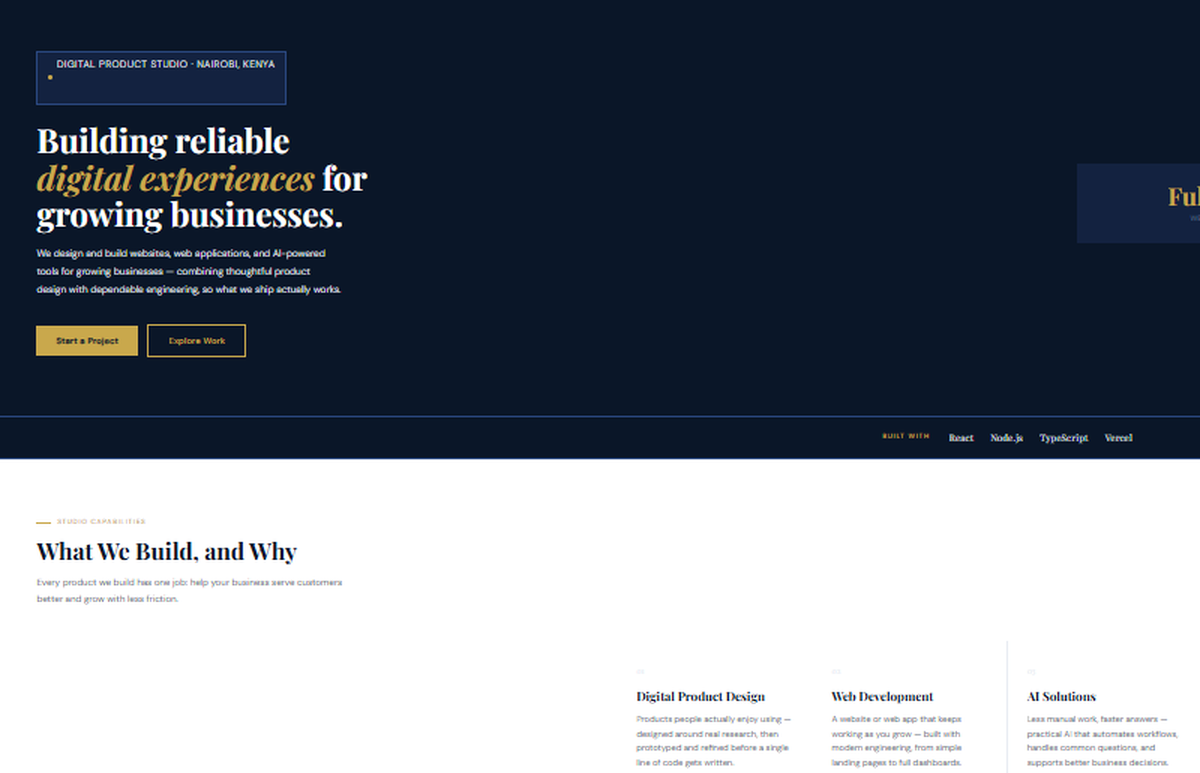
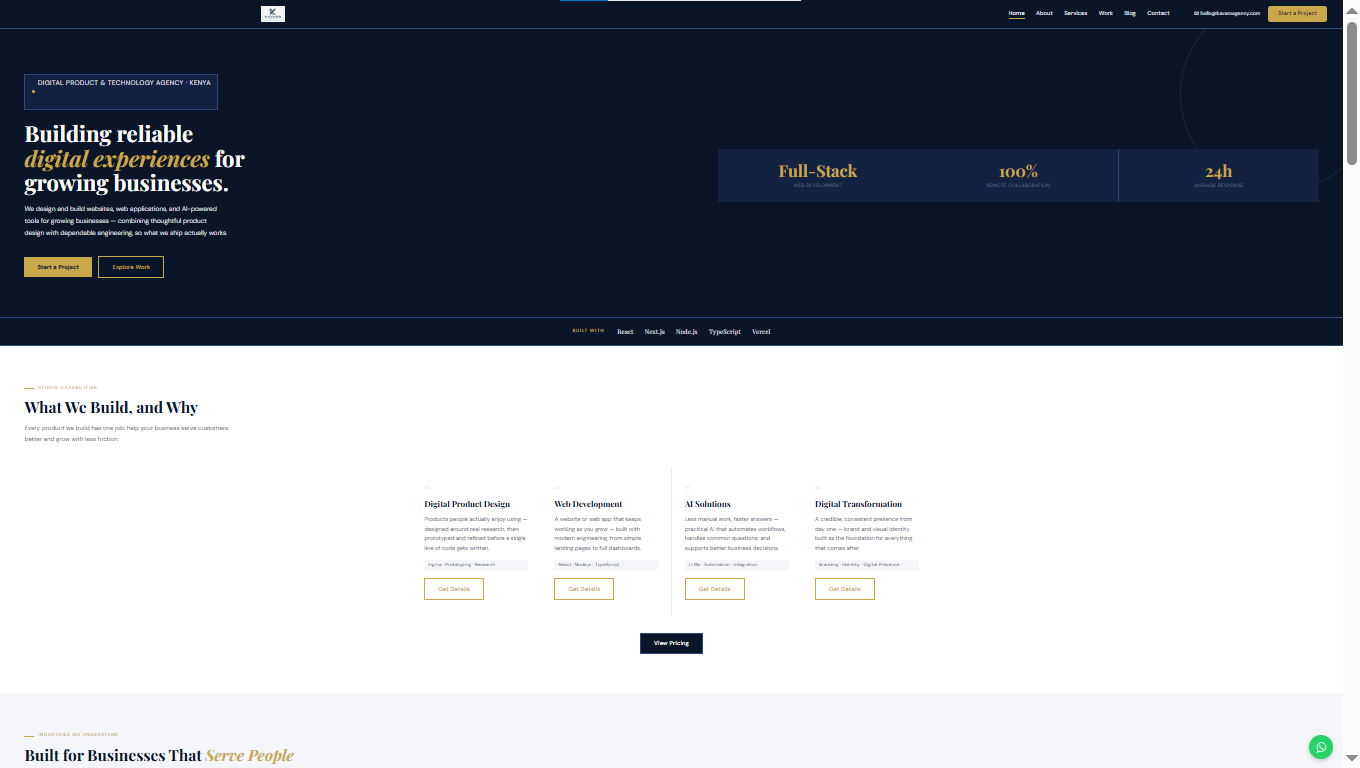
Add real Kavaro proof-of-work projects (MediFlow, Kavaro AI Support, LearnHub) with images; update Kavaro Agency hero

diff --git a/src/components/Projects.jsx b/src/components/Projects.jsx
@@ -66,31 +66,6 @@ const projects = [
   },
   {
     index: '04',
-    name: 'Wordly Dictionary',
-    tagline: 'Word Lookup, Search & Save',
-    description:
-      'A dark-themed dictionary app for searching word definitions, saving favorites, and revisiting recent searches — built for quick, distraction-free lookups.',
-    role: ['React development', 'API & data handling', 'User experience', 'Search functionality'],
-    stack: ['JavaScript', 'React'],
-    links: [
-      { label: 'Live demo', href: 'https://wordly-dictionary-ten.vercel.app/' },
-      { label: 'Repository', href: 'https://github.com/caroline568/wordly-vocabulary-app' },
-    ],
-  },
-  {
-    index: '05',
-    name: 'Workout Tracker API',
-    tagline: 'Backend for Workouts & Exercises',
-    description:
-      'A backend API for logging workouts and exercises, with sets, reps, and duration tracked through a many-to-many exercise relationship — built as a Moringa School summative lab.',
-    role: ['REST API development', 'Database design', 'Serialization', 'Backend architecture'],
-    stack: ['Python', 'Flask', 'SQLAlchemy', 'Marshmallow'],
-    links: [
-      { label: 'Repository', href: 'https://github.com/caroline568/workout-tracker-api' },
-    ],
-  },
-  {
-    index: '06',
     name: 'Mood Tracker',
     tagline: 'Full-Stack Journaling App',
     description:
@@ -100,6 +75,39 @@ const projects = [
     links: [
       { label: 'Repository', href: 'https://github.com/caroline568/mood-tracker-app' },
     ],
+  },
+  {
+    index: '05',
+    name: 'MediFlow',
+    tagline: 'Healthcare Booking Platform',
+    description:
+      'A patient-facing booking platform for local clinics — live doctor availability, instant confirmation, free rescheduling, and a 24/7 AI patient assistant, built under Kavaro Agency.',
+    image: '/projects/mediflow.png',
+    role: ['Product design', 'Frontend development', 'AI integration'],
+    stack: ['React', 'Tailwind', 'Supabase', 'AI Assistant'],
+    links: [{ label: 'Live demo', href: 'https://healthbuddy-appointments.lovable.app' }],
+  },
+  {
+    index: '06',
+    name: 'Kavaro AI Support',
+    tagline: 'AI Customer Support Product',
+    description:
+      'An AI support widget trained only on a business\u2019s own documents — answers from that content, escalates what it doesn\u2019t know, and embeds on any site in one line of code.',
+    image: '/projects/kavaro-ai-support.png',
+    role: ['Product design', 'Frontend development', 'AI integration'],
+    stack: ['React', 'OpenAI API', 'Node.js'],
+    links: [{ label: 'Live demo', href: 'https://kavaro-support-ai.lovable.app' }],
+  },
+  {
+    index: '07',
+    name: 'LearnHub',
+    tagline: 'Learning Management Platform',
+    description:
+      'A learning management platform with courses, lessons, assignments, and certificates for students, authoring and grading tools for instructors, and an always-on AI tutor alongside every lesson.',
+    image: '/projects/learnhub.png',
+    role: ['Product design', 'Frontend development', 'AI integration'],
+    stack: ['React', 'Supabase', 'AI Assistant'],
+    links: [{ label: 'Live demo', href: 'https://nurture-learning-space.lovable.app' }],
   },
 ]
 
